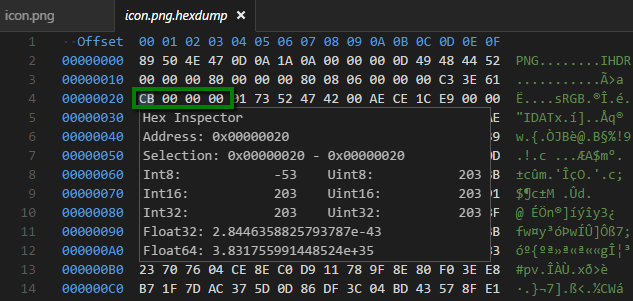
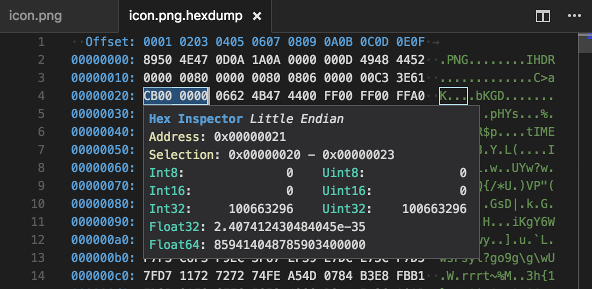
Add colors to the Hex Inspector

Changed region(s): [[0.0, 0.0311, 1.0, 1.0], [0.8818, 0.2491, 1.0, 0.2803], [0.4257, 0.6228, 0.4865, 0.654]]

diff --git a/src/extension.ts b/src/extension.ts
@@ -147,14 +147,15 @@ export function activate(context: vscode.ExtensionContext) {
             }
 
             var content: string = 'Hex Inspector';
-            content += littleEndian ? ' (Little Endian)\n' : ' (Big Endian)\n';
+            content += littleEndian ? ' Little Endian\n' : ' Big Endian\n';
             content += 'Address: 0x' + sprintf('%08X', offset) + '\n';
 
             let sel = vscode.window.activeTextEditor.selection;
             if (sel.contains(position)) {
                 let start = getOffset(sel.start);
                 let end = getOffset(sel.end);
-                content += 'Selection: 0x' + sprintf('%08X', start) + ' - 0x' + sprintf('%08X', end) + '\n';
+                content += 'Selection: 0x' + sprintf('%08X', start) 
+                content += ' - 0x' + sprintf('%08X', end) + ' \n';
             }
 
             let buf = getBuffer(document.uri);
@@ -166,14 +167,15 @@ export function activate(context: vscode.ExtensionContext) {
             var view = new DataView(arrbuf);
 
             content += 'Int8:   ' + sprintf('%12d', view.getInt8(0)) + '\t';
-            content += 'Uint8:  ' + sprintf('%12d', view.getUint8(0)) + '\n';
+            content += 'Uint8:  ' + sprintf('%12d', view.getUint8(0)) + ' \n';
             content += 'Int16:  ' + sprintf('%12d', view.getInt16(0, littleEndian)) + '\t';
-            content += 'Uint16: ' + sprintf('%12d', view.getUint16(0, littleEndian)) + '\n';
+            content += 'Uint16: ' + sprintf('%12d', view.getUint16(0, littleEndian)) + ' \n';
             content += 'Int32:  ' + sprintf('%12d', view.getInt32(0, littleEndian)) + '\t';
-            content += 'Uint32: ' + sprintf('%12d', view.getUint32(0, littleEndian)) + '\n';
-            content += 'Float32: ' + sprintf('%f', view.getFloat32(0, littleEndian)) + '\n';
-            content += 'Float64: ' + sprintf('%f', view.getFloat64(0, littleEndian)) + '\n';
-            return new vscode.Hover(content);
+            content += 'Uint32: ' + sprintf('%12d', view.getUint32(0, littleEndian)) + ' \n';
+            content += 'Float32: ' + sprintf('%f', view.getFloat32(0, littleEndian)) + ' \n';
+            content += 'Float64: ' + sprintf('%f', view.getFloat64(0, littleEndian)) + ' \n';
+ 
+            return new vscode.Hover( {language: 'hexdump', value: content} );
         }
     });
 
